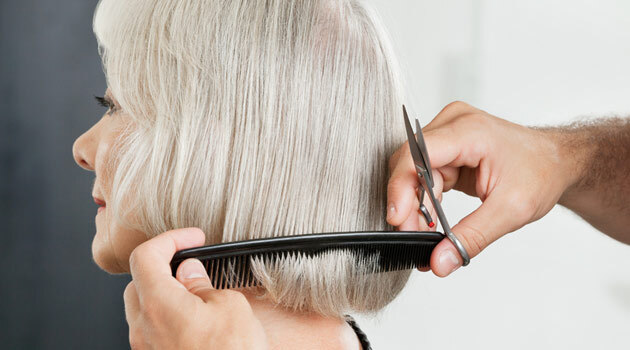
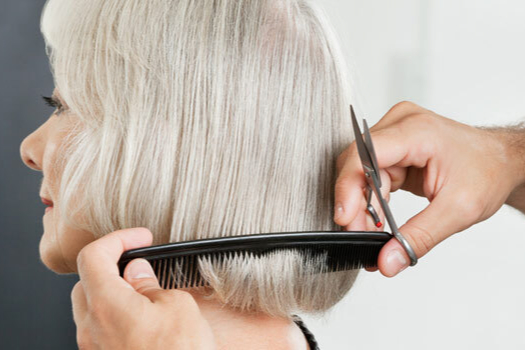
swapping images

diff --git a/src/data.js b/src/data.js
@@ -30,8 +30,8 @@ export const services = [
 export const packageOptions = [
     {title: 'Practical Support', description: 'We can provide assistance with:', features: ['Bathing and Shaving', 'Medication', 'Dressing and Undressing', 'Continence Care', 'Hairdressing and Pampering', 'Shopping and meal preparation', 'Recovering from illness', 'Getting to appointments'], img: 'https://www.belleviecare.co.uk/wp-content/uploads/2020/10/philippa-james-photography-77-e1602409059618.jpg'},
     {title: 'Social Life', description: 'Would you enjoy a trip to the theatre? A walk in your favourite park? A video call to see your grandchild? How about a round of your favourite board game? We can arrange:', features: ['Social activities, singular or group', 'Transport', 'Support to help you stay connected to your loved ones over the phone or video call'], img: 'https://www.belleviecare.co.uk/wp-content/uploads/2020/10/philippa-james-photography-36-e1602409501719.jpg'},
-    {title: 'Products', description: 'We take care of your home, making sure you have the right environment to thrive and feel comfortable in.', features: ['Cleaning', 'Dry cleaning', 'Clothes washing, Ironing', 'Home help (changing light bulbs, taking the bins out, basic DIY)', 'Pet care'], img: 'https://www.belleviecare.co.uk/wp-content/uploads/2020/10/philippa-james-photography-41-e1602409619289.jpg'},
-    {title: 'Services', description: 'Our Wellbeing Support Workers are trained to offer support for those with specialist needs such as returning home from hospital, or end of life care. We can also help people living with:', features: ['Dementia', 'Parkinson’s', 'Cancer'], img: 'https://www.belleviecare.co.uk/wp-content/uploads/2020/10/philippa-james-photography-21.jpg'}
+    {title: 'Products', description: 'We take care of your home, making sure you have the right environment to thrive and feel comfortable in.', features: ['Cleaning', 'Dry cleaning', 'Clothes washing, Ironing', 'Home help (changing light bulbs, taking the bins out, basic DIY)', 'Pet care'], img: 'imgs/products.jpg'},
+    {title: 'Services', description: 'Our Wellbeing Support Workers are trained to offer support for those with specialist needs such as returning home from hospital, or end of life care. We can also help people living with:', features: ['Dementia', 'Parkinson’s', 'Cancer'], img: 'imgs/hairdresser.jpg'}
 ];
 
 export const initValues = [{title: 'Look good and feel good', name: 'health'}, {title: 'Leisure and Play', name: 'leisure'}, {title: 'Living at Home', name: 'home'}, {title: 'Security', name: 'security'}];
